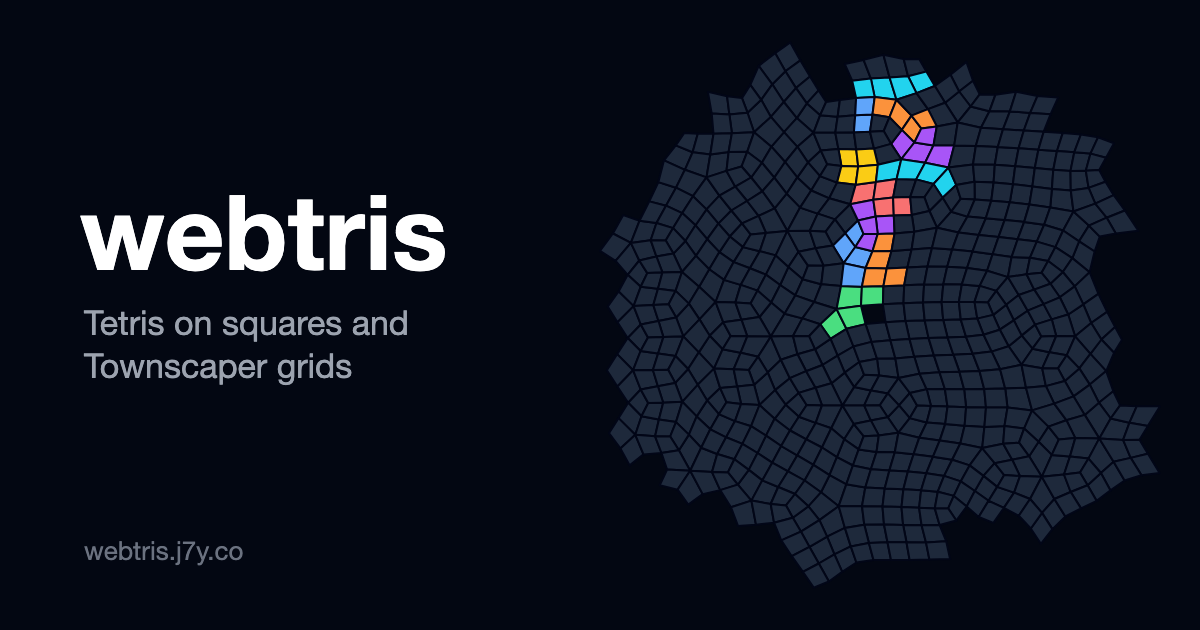
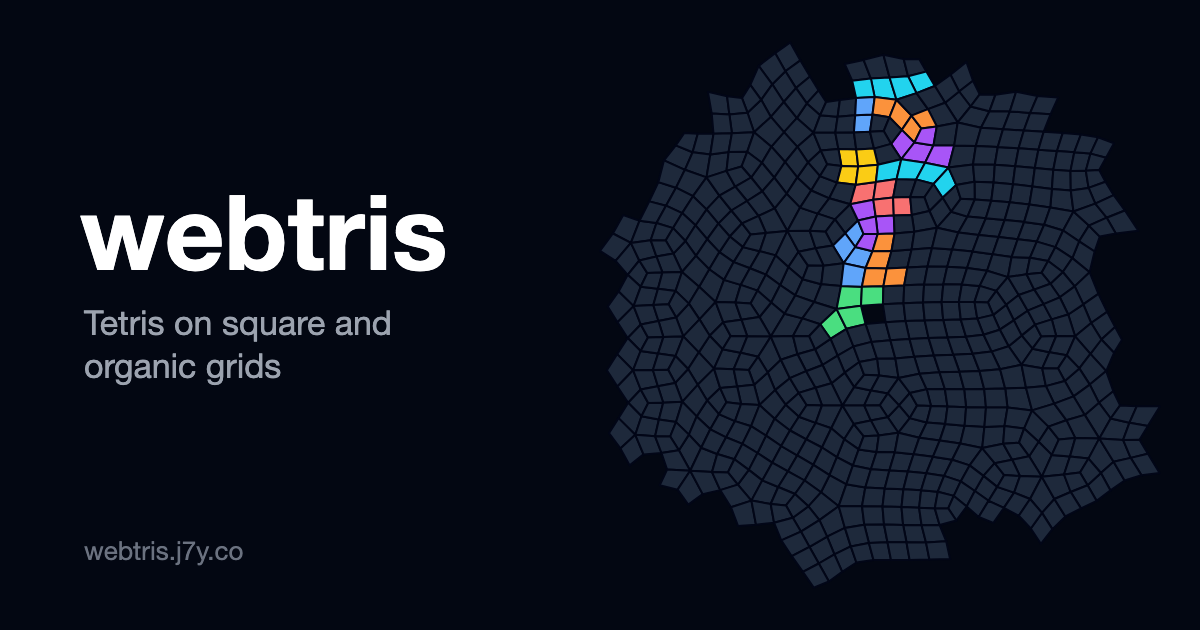
Rename the irregular modes to organic; improve the page title
- Modes are now "Organic well" and "Organic disc"; generators are
  organicMesh, organicWell, organicDisc.
- Page and share-card title: "webtris · Tetris on square and organic
  grids". Descriptions, image alt text, and the share image tagline
  follow the new naming.
- README credits the irregular quad-grid technique to Oskar Stålberg.

Assisted-by: Claude Opus 5.5 <noreply@anthropic.com>

Changed region(s): [[0.0617, 0.5429, 0.3083, 0.6032], [0.2775, 0.4825, 0.3392, 0.5429]]

diff --git a/index.html b/index.html
@@ -3,8 +3,8 @@
   <head>
     <meta charset="UTF-8" />
     <meta name="viewport" content="width=device-width, initial-scale=1.0" />
-    <title>webtris</title>
-    <meta name="description" content="Tetris in the browser on three grids: classic squares, an irregular Townscaper well, and a Townscaper disc where pieces fall to the centre." />
+    <title>webtris · Tetris on square and organic grids</title>
+    <meta name="description" content="Tetris in the browser on three grids: classic squares, an organic well, and an organic disc where pieces fall to the centre." />
     <meta name="theme-color" content="#030712" />
     <link rel="canonical" href="https://webtris.j7y.co/" />
     <link rel="icon" href="/favicon.svg" type="image/svg+xml" />
@@ -13,19 +13,19 @@
     <meta property="og:type" content="website" />
     <meta property="og:site_name" content="webtris" />
     <meta property="og:url" content="https://webtris.j7y.co/" />
-    <meta property="og:title" content="webtris" />
-    <meta property="og:description" content="Tetris on squares and Townscaper grids. Three modes: classic, an irregular well, and a disc where pieces fall to the centre." />
+    <meta property="og:title" content="webtris · Tetris on square and organic grids" />
+    <meta property="og:description" content="Tetris on square and organic grids. Three modes: classic, an irregular well, and a disc where pieces fall to the centre." />
     <meta property="og:image" content="https://webtris.j7y.co/og.png" />
     <meta property="og:image:type" content="image/png" />
     <meta property="og:image:width" content="1200" />
     <meta property="og:image:height" content="630" />
-    <meta property="og:image:alt" content="The webtris title next to an irregular Townscaper disc grid with coloured tetromino pieces stacked on it." />
+    <meta property="og:image:alt" content="The webtris title next to an organic disc grid with coloured tetromino pieces stacked on it." />
 
     <meta name="twitter:card" content="summary_large_image" />
-    <meta name="twitter:title" content="webtris" />
-    <meta name="twitter:description" content="Tetris on squares and Townscaper grids." />
+    <meta name="twitter:title" content="webtris · Tetris on square and organic grids" />
+    <meta name="twitter:description" content="Tetris on square and organic grids." />
     <meta name="twitter:image" content="https://webtris.j7y.co/og.png" />
-    <meta name="twitter:image:alt" content="The webtris title next to an irregular Townscaper disc grid with coloured tetromino pieces stacked on it." />
+    <meta name="twitter:image:alt" content="The webtris title next to an organic disc grid with coloured tetromino pieces stacked on it." />
     <script type="module" src="/src/main.ts"></script>
   </head>
   <body class="h-full text-gray-100 antialiased">
@@ -80,11 +80,11 @@
                 <span class="block text-sm text-gray-400">10 × 20 squares. Clear full rows.</span>
               </button>
               <button type="button" data-mode="well" class="block w-full rounded-lg bg-white/5 px-4 py-3 text-left ring-1 ring-white/10 hover:bg-white/10 focus-visible:outline-2 focus-visible:outline-indigo-500">
-                <span class="block font-semibold text-white">Townscaper well</span>
+                <span class="block font-semibold text-white">Organic well</span>
                 <span class="block text-sm text-gray-400">Irregular quads, pieces bend. Clear full horizontal bands.</span>
               </button>
               <button type="button" data-mode="disc" class="block w-full rounded-lg bg-white/5 px-4 py-3 text-left ring-1 ring-white/10 hover:bg-white/10 focus-visible:outline-2 focus-visible:outline-indigo-500">
-                <span class="block font-semibold text-white">Townscaper disc</span>
+                <span class="block font-semibold text-white">Organic disc</span>
                 <span class="block text-sm text-gray-400">Pieces fall to the centre. Clear full rings.</span>
               </button>
             </div>

diff --git a/src/grid.ts b/src/grid.ts
@@ -92,12 +92,12 @@ export function squareBoard(cols = 10, rows = 20): Board {
 const ek = (a: number, b: number) => (a < b ? `${a}_${b}` : `${b}_${a}`)
 
 /**
- * Townscaper-style mesh with no triangles left: tri lattice -> random perfect pairing of
+ * Organic quad mesh with no triangles left: tri lattice -> random perfect pairing of
  * triangles into quads -> split all to quads -> relax. The region is a union of whole
  * hexagons (6 triangles around every third lattice vertex), which always has a perfect
  * pairing; keep(x, y) picks hexagons by their centre.
  */
-function townscaperMesh(seed: number, cols: number, rows: number, keep: (x: number, y: number) => boolean) {
+function organicMesh(seed: number, cols: number, rows: number, keep: (x: number, y: number) => boolean) {
   const rand = rng(seed)
   const shuffle = <T>(a: T[]) => {
     for (let i = a.length - 1; i > 0; i--) {
@@ -303,7 +303,7 @@ function crop(cells: Cell[], keep: (i: number) => boolean) {
 }
 
 /**
- * Rectangular well cut out of a larger Townscaper quad mesh (whole hexagons, every triangle
+ * Rectangular well cut out of a larger organic quad mesh (whole hexagons, every triangle
  * paired into a quad at random). The cut keeps whole cells by their centres, so the cells
  * decide where the walls are; the piece is then relaxed again with nothing pinned and the
  * bottom row's centres held roughly level. Lines are horizontal bands one cell high,
@@ -313,13 +313,13 @@ function crop(cells: Cell[], keep: (i: number) => boolean) {
  * off straight down, the most direct first; an edge neighbour beats one sharing only a
  * corner. Only if nothing qualifies does the limit widen to 60 degrees.
  */
-export function townscaperWell(seed: number, width = 4.6, height = 9.4): Board {
+export function organicWell(seed: number, width = 4.6, height = 9.4): Board {
   const h = Math.sqrt(3) / 2
   // Hexagons around the cut with a margin, so the cut never meets the mesh's own edge.
   const cols = Math.ceil(width) + 8
   const rows = Math.ceil(height / h) + 8
   const [x0, y0] = [4, 4 * h]
-  const mesh = townscaperMesh(seed, cols, rows, (x, y) => x > x0 - 2 && x < x0 + width + 2 && y > y0 - 2 && y < y0 + height + 2)
+  const mesh = organicMesh(seed, cols, rows, (x, y) => x > x0 - 2 && x < x0 + width + 2 && y > y0 - 2 && y < y0 + height + 2)
   const cells = crop(mesh, (i) => {
     const c = mesh[i]
     return c.cx >= x0 && c.cx <= x0 + width && c.cy >= y0 && c.cy <= y0 + height
@@ -391,14 +391,14 @@ export function linesConnected(cells: Cell[]) {
  * The centre cell becomes a solid core; rings that touch the outer boundary are cropped.
  * A rare pocket in the layer growth can split a ring; such meshes are rejected for the next seed.
  */
-export function townscaperDisc(seed: number, radius = 9): Board {
+export function organicDisc(seed: number, radius = 9): Board {
   const h = Math.sqrt(3) / 2
   // Two units of margin so every hexagon that keep() picks lies whole inside the lattice.
   const cols = Math.ceil(radius * 2) + 4
   const rows = Math.ceil((radius * 2) / h) + 4
   const ox = cols / 2 + 0.25
   const oy = (rows * h) / 2
-  let cells = townscaperMesh(seed, cols, rows, (x, y) => Math.hypot(x - ox, y - oy) <= radius)
+  let cells = organicMesh(seed, cols, rows, (x, y) => Math.hypot(x - ox, y - oy) <= radius)
 
   const key = (p: Vec) => `${p.x.toFixed(6)},${p.y.toFixed(6)}`
   const byVertex = new Map<string, number[]>()
@@ -421,7 +421,7 @@ export function townscaperDisc(seed: number, radius = 9): Board {
   cells.forEach((c, i) => c.nb.includes(-1) && (last = Math.min(last, ring[i] - 1)))
   cells.forEach((c, i) => (c.line = ring[i] - 1))
   cells = crop(cells, (i) => ring[i] >= 1 && ring[i] <= last)
-  if (!linesConnected(cells)) return townscaperDisc(seed + 1, radius)
+  if (!linesConnected(cells)) return organicDisc(seed + 1, radius)
 
   const dist = (c: Cell) => Math.hypot(c.cx - ox, c.cy - oy)
   for (const c of cells) {

diff --git a/src/game.test.ts b/src/game.test.ts
@@ -1,6 +1,6 @@
 import { describe, expect, it } from 'vitest'
 import { Game, blocks, KINDS } from './game'
-import { linesConnected, rng, squareBoard, townscaperDisc, townscaperWell, type Board } from './grid'
+import { linesConnected, rng, squareBoard, organicDisc, organicWell, type Board } from './grid'
 
 function polyArea(p: { x: number; y: number }[]) {
   return Math.abs(p.reduce((s, a, k) => s + a.x * p[(k + 1) % 4].y - p[(k + 1) % 4].x * a.y, 0)) / 2
@@ -19,16 +19,16 @@ describe('boards', () => {
   it('square board is consistent', () => invariants(squareBoard()))
 
   // Generation throws on any source triangle or pentagon, so building boards is the check.
-  it('townscaper boards are consistent and built from quads only', () => {
+  it('organic boards are consistent and built from quads only', () => {
     for (let seed = 1; seed <= 20; seed++) {
-      invariants(townscaperWell(seed))
-      invariants(townscaperDisc(seed))
+      invariants(organicWell(seed))
+      invariants(organicDisc(seed))
     }
   })
 
   it('well: down is always at most 60 degrees off straight down, and the bottom row is level', () => {
     for (let seed = 1; seed <= 50; seed++) {
-      const { cells } = townscaperWell(seed)
+      const { cells } = organicWell(seed)
       for (const c of cells)
         for (const d of c.downs) {
           const [dx, dy] = [cells[d].cx - c.cx, cells[d].cy - c.cy]
@@ -43,7 +43,7 @@ describe('boards', () => {
   })
 
   it('every disc ring is one edge-connected piece', () => {
-    for (let seed = 1; seed <= 50; seed++) expect(linesConnected(townscaperDisc(seed).cells)).toBe(true)
+    for (let seed = 1; seed <= 50; seed++) expect(linesConnected(organicDisc(seed).cells)).toBe(true)
   })
 })
 
@@ -123,8 +123,8 @@ describe('pieces and scoring', () => {
 
 describe.each([
   ['classic', () => squareBoard()],
-  ['well', () => townscaperWell(3)],
-  ['disc', () => townscaperDisc(3)],
+  ['well', () => organicWell(3)],
+  ['disc', () => organicDisc(3)],
 ])('%s board play', (_, make) => {
   it('a piece always lands within a bounded number of steps', () => {
     for (const kind of KINDS) {

diff --git a/src/main.ts b/src/main.ts
@@ -2,13 +2,13 @@ import './style.css'
 import '@tailwindplus/elements'
 import { animate } from 'animejs'
 import { Game, blocks } from './game'
-import { squareBoard, townscaperDisc, townscaperWell, type Board } from './grid'
+import { squareBoard, organicDisc, organicWell, type Board } from './grid'
 import { COLORS, Renderer } from './render'
 
 const MODES: Record<string, { name: string; board: (seed: number) => Board }> = {
   classic: { name: 'Classic', board: () => squareBoard() },
-  well: { name: 'Townscaper well', board: townscaperWell },
-  disc: { name: 'Townscaper disc', board: townscaperDisc },
+  well: { name: 'Organic well', board: organicWell },
+  disc: { name: 'Organic disc', board: organicDisc },
 }
 
 const $ = <T extends HTMLElement = HTMLElement>(id: string) => document.getElementById(id) as T

diff --git a/README.md b/README.md
@@ -9,11 +9,10 @@ Tetris in the browser on three grids. Play it at https://webtris.j7y.co.
 | Mode | Grid | A line is |
 |---|---|---|
 | Classic | 10 × 20 squares | a full row |
-| Townscaper well | irregular quads, gravity down | a horizontal band one cell high |
-| Townscaper disc | irregular quads, gravity to the centre | a ring around the centre |
+| Organic well | irregular quads, gravity down | a horizontal band one cell high |
+| Organic disc | irregular quads, gravity to the centre | a ring around the centre |
 
-The Townscaper grids follow the method from
-[Townscaper's grid](https://boristhebrave.com/docs/sylves/1/articles/tutorials/townscaper.html):
+The organic grids use the irregular quad-grid technique shared by Oskar Stålberg:
 a triangle lattice, triangles paired into quads, every quad split into four, then
 relaxed toward squares. Pieces bend to fit the cells they cross.
 
@@ -60,7 +59,7 @@ npm run preview   # build, then serve dist/ with wrangler dev
 
 | Path | Contents |
 |---|---|
-| `src/grid.ts` | board generators: square, Townscaper well, Townscaper disc |
+| `src/grid.ts` | board generators: square, organic well, organic disc |
 | `src/game.ts` | rules: pieces, moves, rotation, locking, line clears, scoring |
 | `src/render.ts` | PixiJS drawing and anime.js effects |
 | `src/main.ts` | game loop, keyboard input, HUD |
